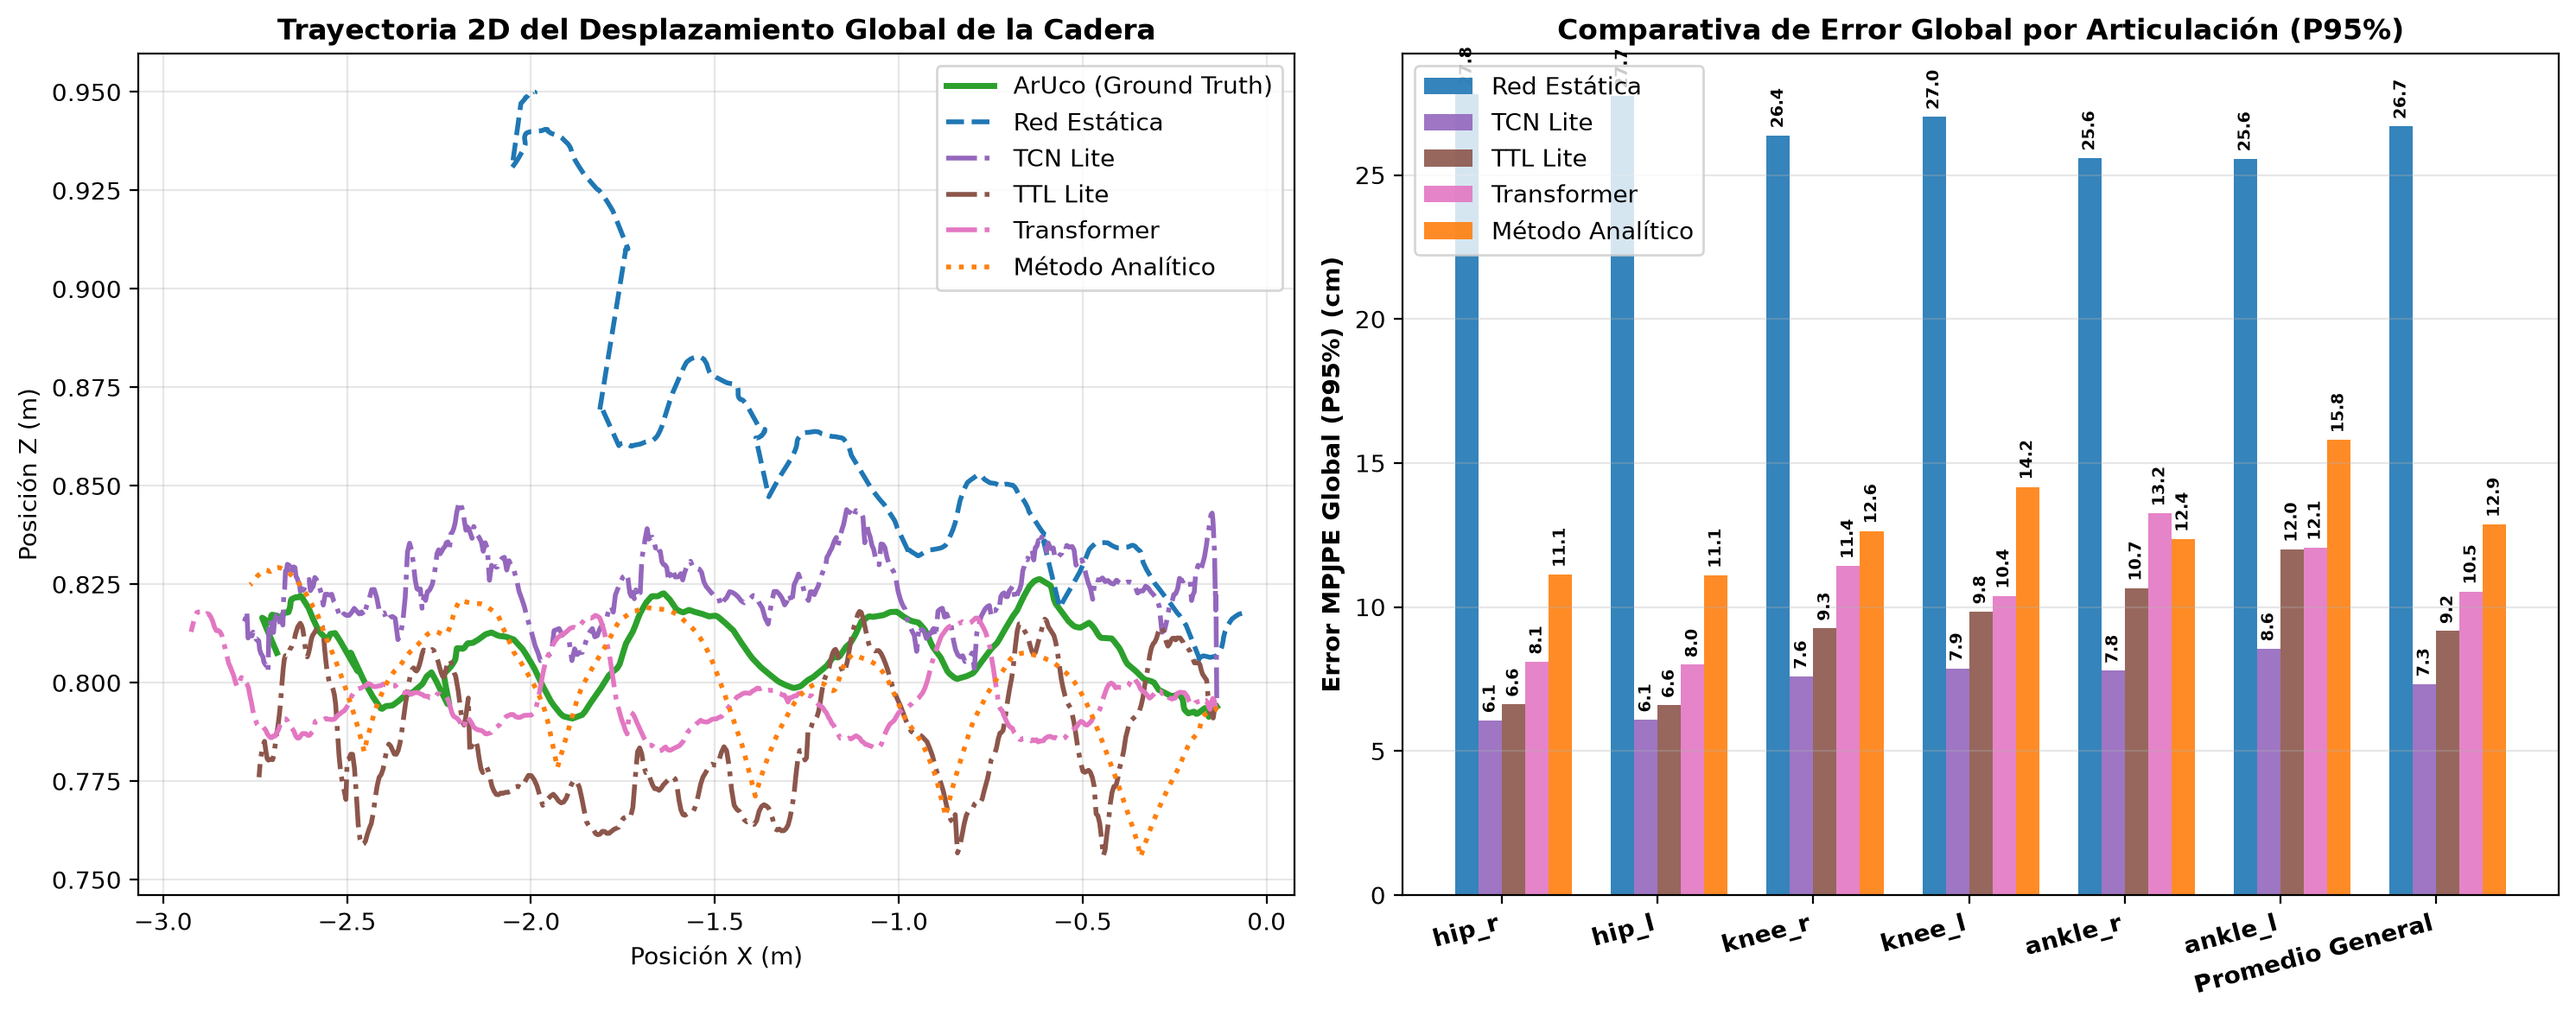
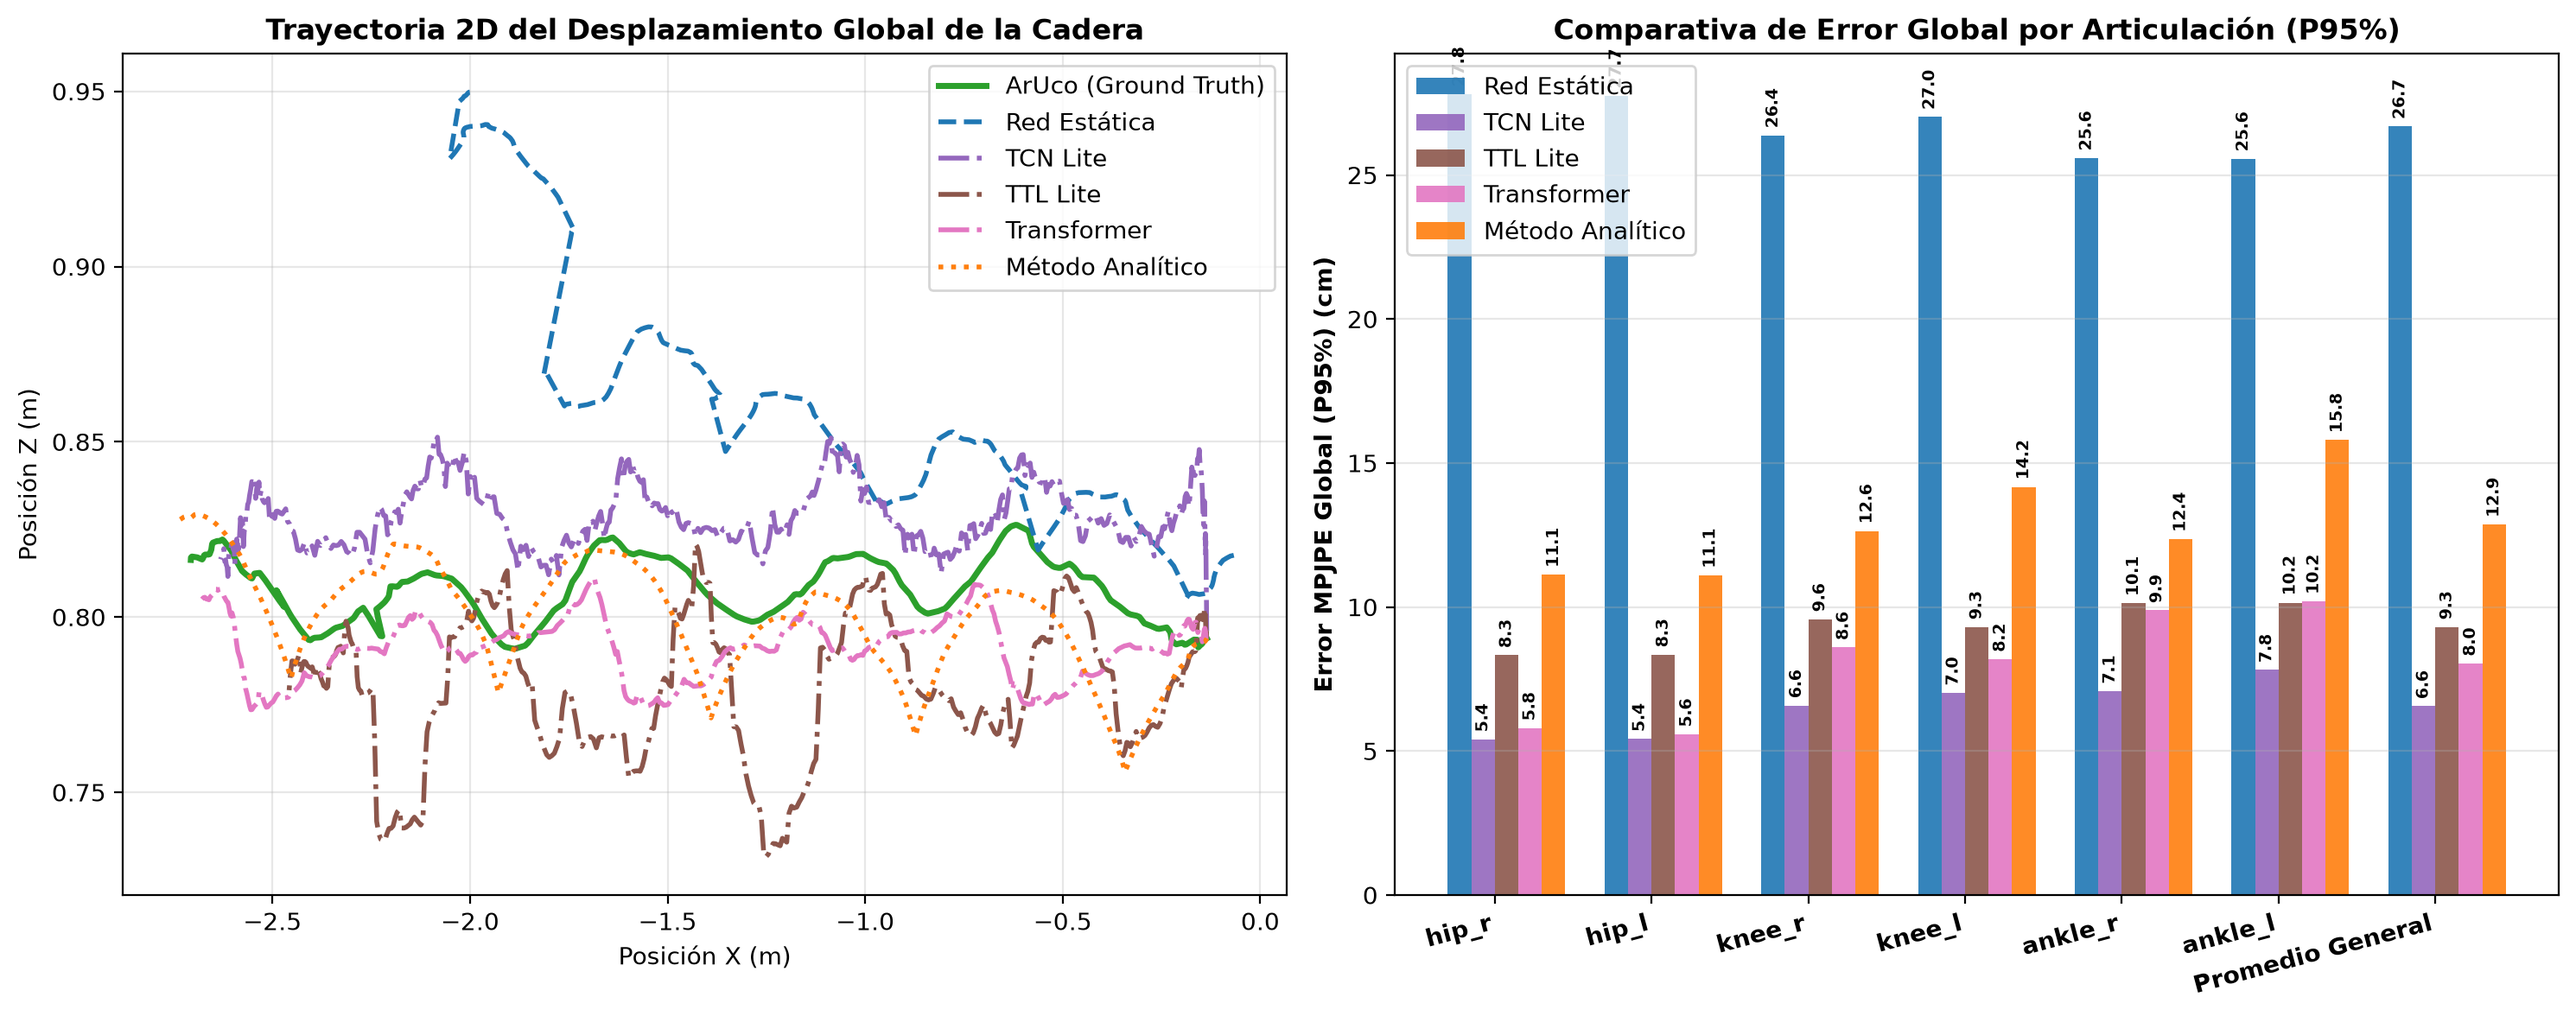
Lee norm_stats del checkpoint en las figuras y añade evaluación con ventana 25
- generate_manuscript_figures.py usa los norm_stats guardados en el checkpoint
  de TCN Lite (norm_stats.json solo como respaldo).
- results-v3.txt: evaluación completa con la ventana real de entrenamiento (25).
- Gráficas globales regeneradas con esa evaluación.

diff --git a/generate_manuscript_figures.py b/generate_manuscript_figures.py
@@ -167,10 +167,14 @@ def run_pipeline_evaluation(use_cache: bool = True):
         ckpt_tcn["model_state_dict"] if "model_state_dict" in ckpt_tcn else ckpt_tcn
     )
 
-    with open(Path("nn-results/tcn_lite/checkpoints/norm_stats.json"), "r") as f:
-        norm_stats_tcn = json.load(f)
+    # norm_stats del propio checkpoint; el .json compartido puede venir de otro entrenamiento
+    if ckpt_tcn.get("norm_stats") is not None:
+        norm_stats_tcn = dict(ckpt_tcn["norm_stats"])
+    else:
+        with open(tcn_ckpt_path.parent / "norm_stats.json", "r") as f:
+            norm_stats_tcn = json.load(f)
     for k in ["mean", "std"]:
-        norm_stats_tcn[k] = np.array(norm_stats_tcn[k], dtype=np.float32)
+        norm_stats_tcn[k] = np.asarray(norm_stats_tcn[k], dtype=np.float32)
 
     in_dim_tcn = (
         state_tcn["input_proj.0.weight"].shape[1]
